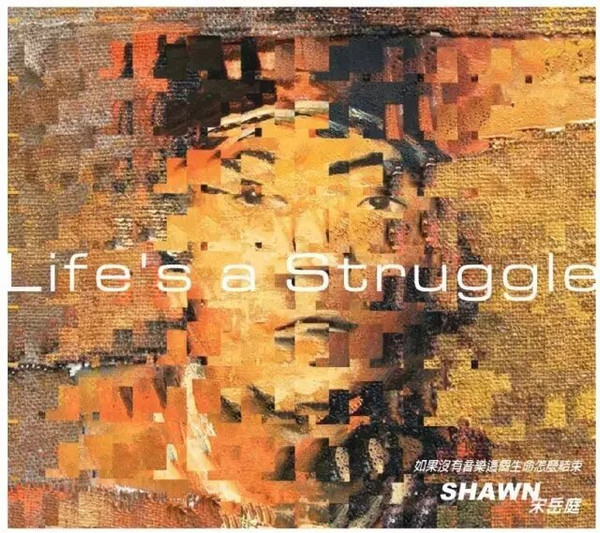
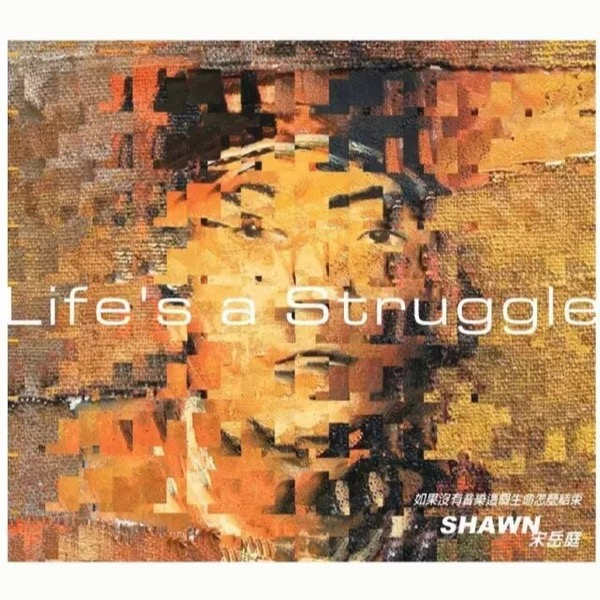
Add 猎户星座, square the Life's a Struggle cover
The Life's a Struggle scan was 600x533, so object-fit: cover trimmed
~12px off each side and clipped the title lettering; pad it to square
with a colour sampled from the scan's own margins.

猎户星座 has no cover art yet, which exposed the placeholder's
hardcoded 花儿乐队 branding — drive it from the album instead.

diff --git a/src/albums.js b/src/albums.js
@@ -414,4 +414,26 @@ export const ALBUMS = [
       'Toy Story',
     ],
   },
+  {
+    id: 'liehu-xingzuo',
+    title: '猎户星座',
+    artist: '朴树',
+    year: 2017,
+    edition: '五大唱片 · CD',
+    accent: '#2f3b57',
+    tracks: [
+      '空帆船',
+      'Never Knows Tomorrow',
+      '在木星',
+      '好好地',
+      'XX青春',
+      'Baby，До свидания',
+      '吉他演奏曲',
+      'No Fear In My Heart',
+      'Forever Young',
+      '平凡之路',
+      '清白之年',
+      '猎户星座',
+    ],
+  },
 ]

diff --git a/src/pages/Albums.jsx b/src/pages/Albums.jsx
@@ -23,8 +23,8 @@ function AlbumCover({ album, large = false }) {
       aria-label={`${album.title} by ${album.artist}; cover artwork coming soon`}
       role="img"
     >
-      <span className="cover-band-name">THE FLOWERS</span>
-      <span className="cover-mark">花</span>
+      <span className="cover-band-name">{album.artist}</span>
+      <span className="cover-mark">{album.title.slice(0, 1)}</span>
       <span className="cover-title">{album.title}</span>
       <span className="cover-year">{album.year}</span>
     </div>
